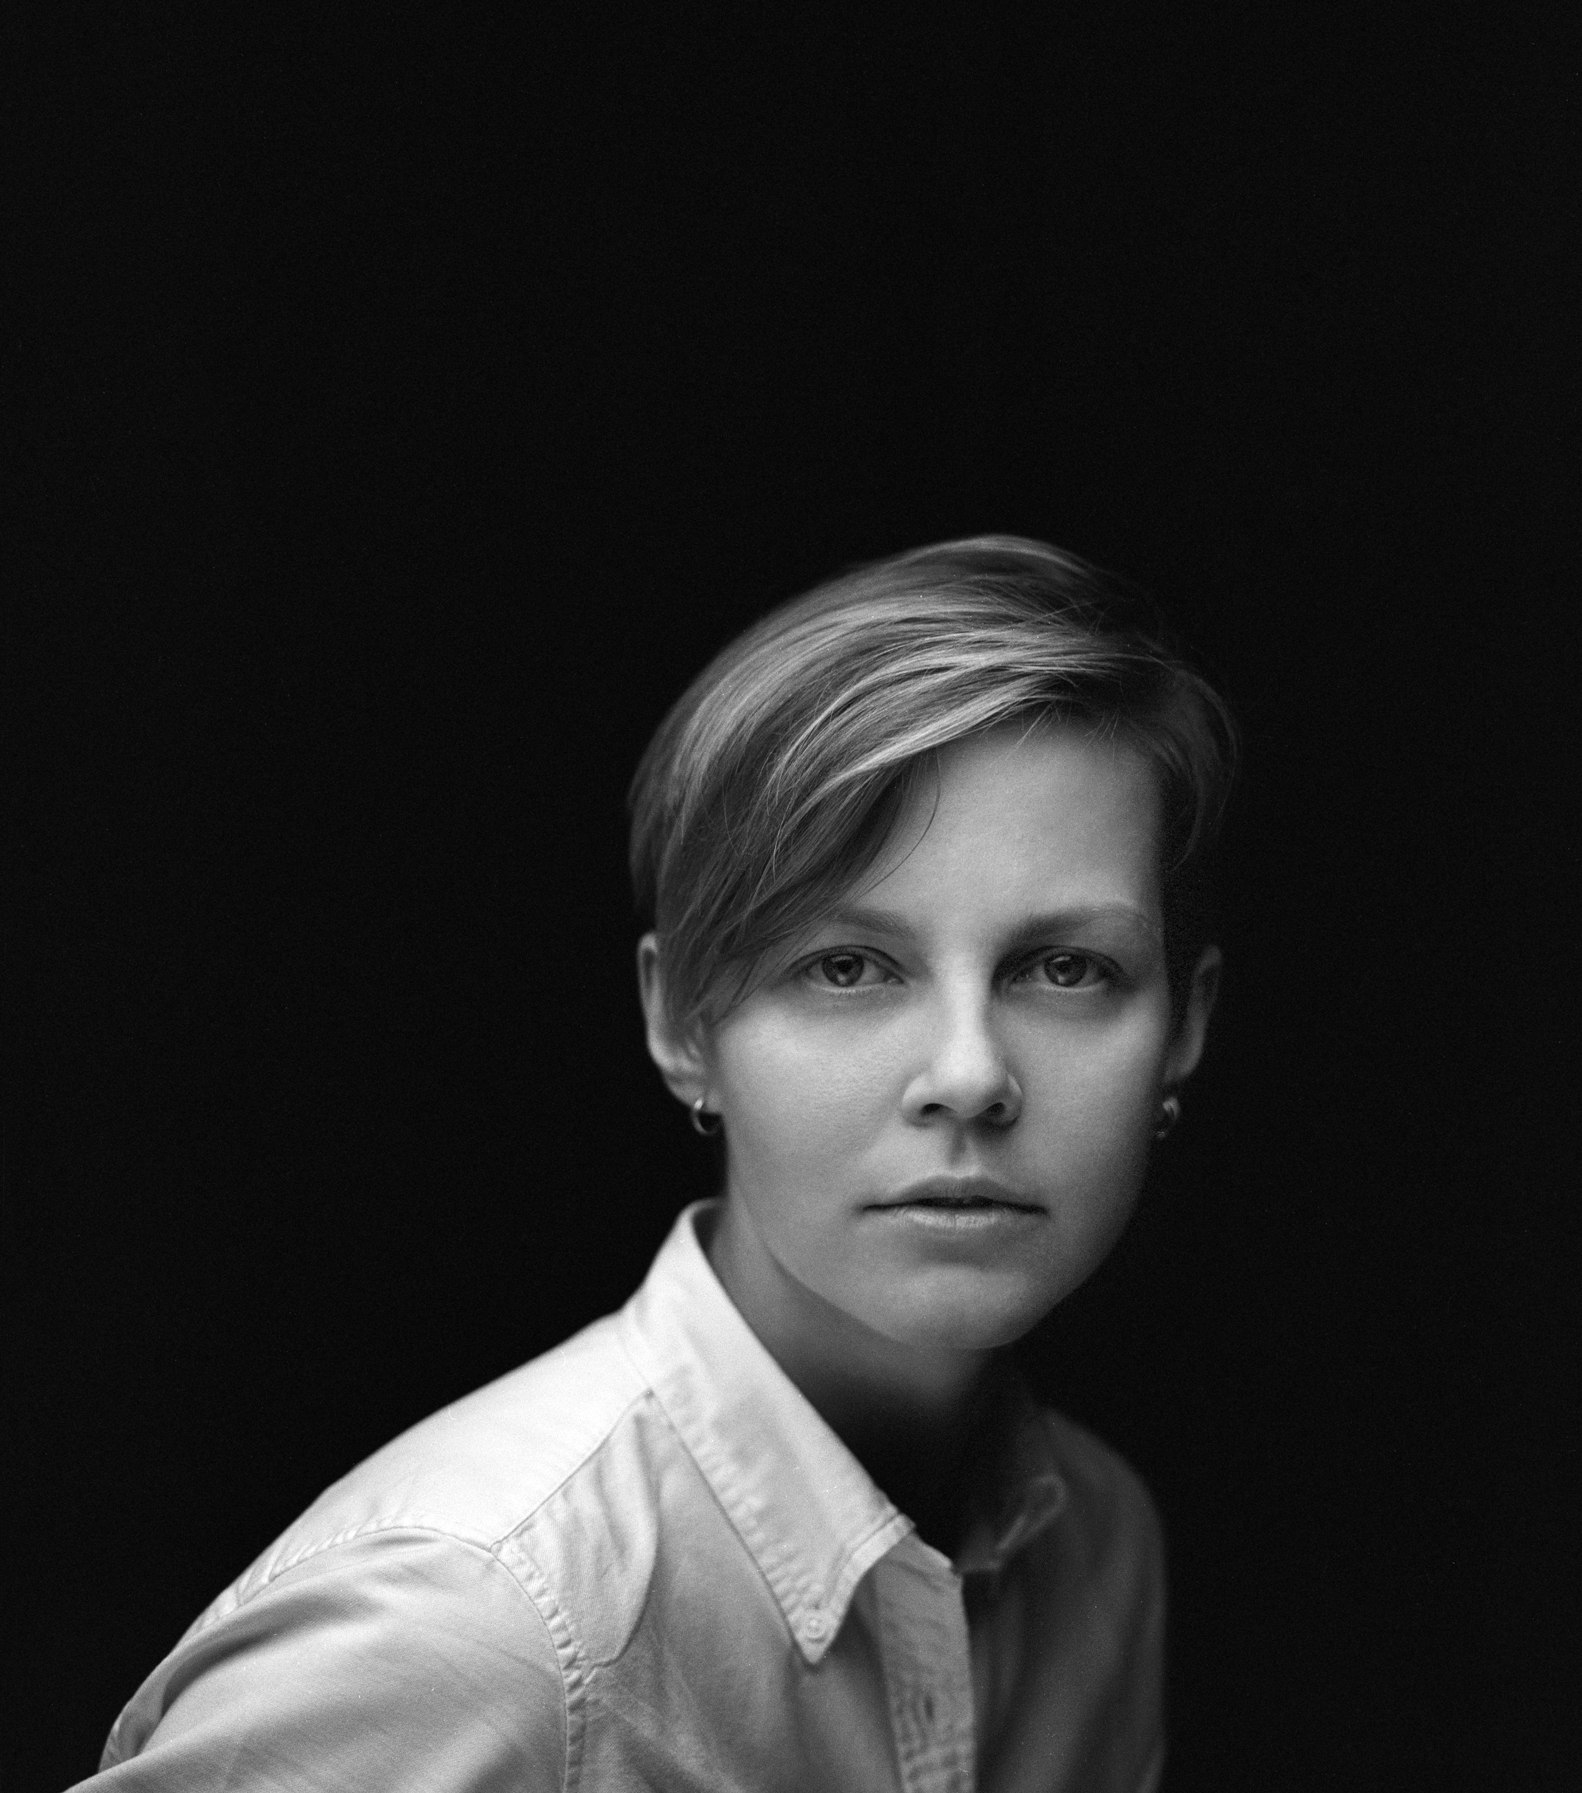
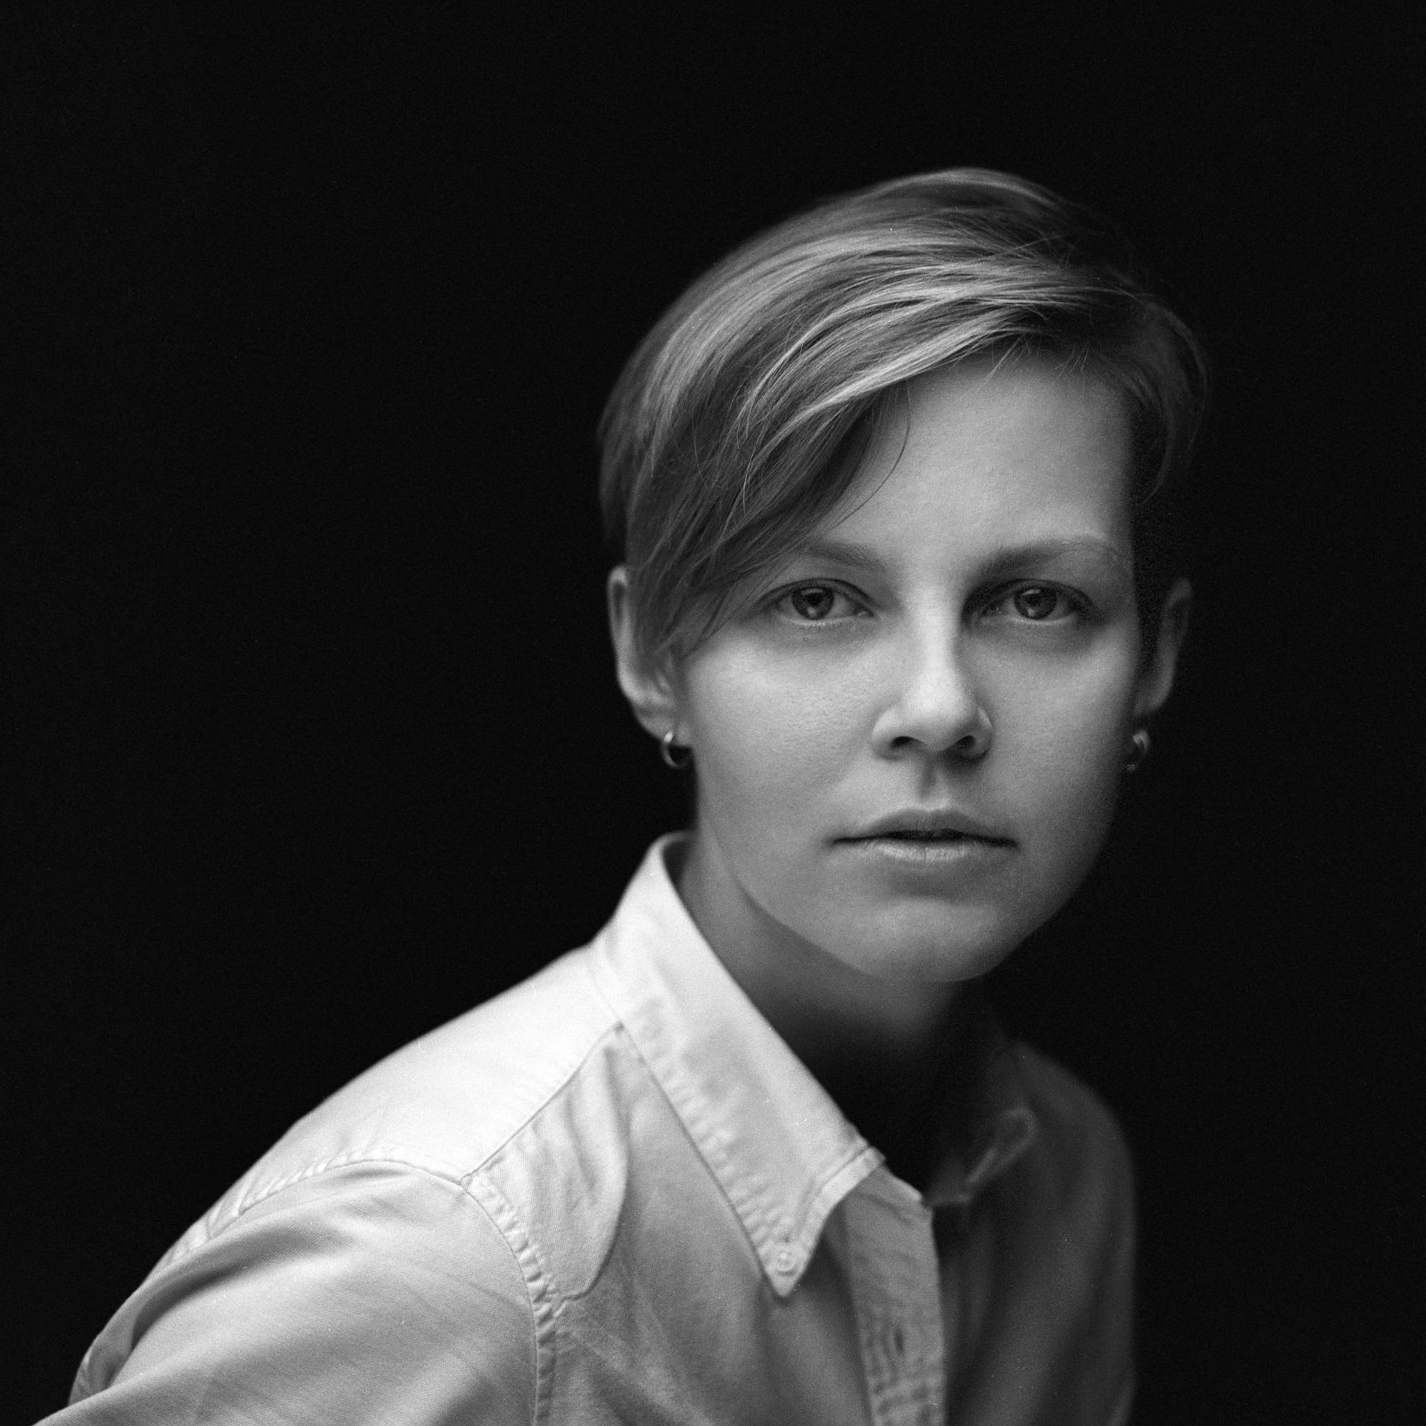
refactor:image style

Changed region(s): [[0.0309, 0.0926, 0.8331, 1.0]]

diff --git a/style.css b/style.css
@@ -1,5 +1,5 @@
 nav {
-    background-color: hsl(0, 0%, 20%);
+    background-color: hsl(0, 0%, 15%);
     height: 50px;
     width: 100vw;
     padding-top: 0px;
@@ -24,8 +24,21 @@ h1 {
     font-size: normal;
 }
 
-.avatar {
-    padding-top: 10 px;
+figure {
+    margin: 0px;
+    padding: 0px;
+    height: 200px;
+    background-color: hsl(0, 0%, 80%);
+}
+
+img {
+    display: inline-block;
+    padding-top: 0px;
+    margin-top: 10px;
+    margin-left: 10px;
+    height: 180px;
+    width: auto;
+
 }
 
 .contacts {

diff --git a/index.html b/index.html
@@ -25,7 +25,9 @@
           </nav>
     </header>
     <main>
-        <img src="assets/image/KjwB-ObOT74.jpg" width="100px" height="100px"/>
+        <figure>
+            <img class="avatar" src="assets/image/KjwB-ObOT74.jpg" alt="Sasha Ivanova"/>
+        </figure>
         <h1>Aleksandra Ivanova</h1>
         <h2 id="info">Contacts</h2>
         <p>
